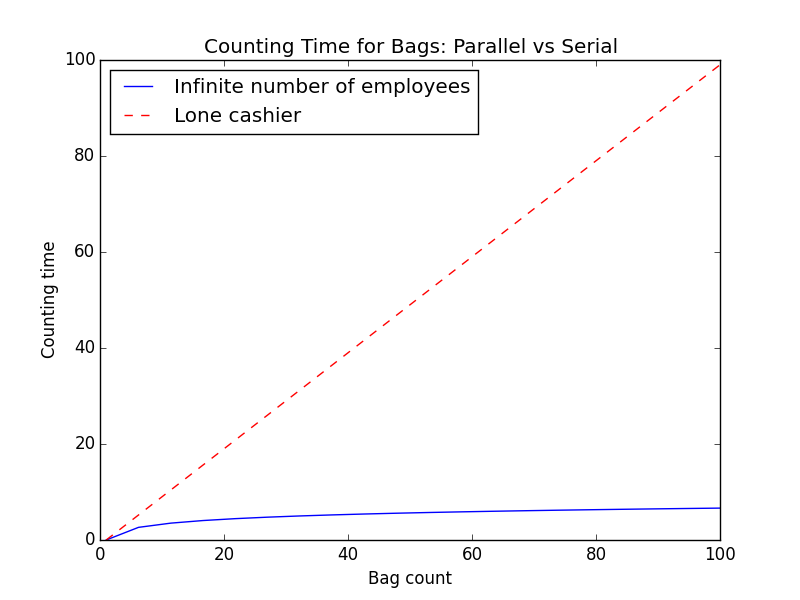
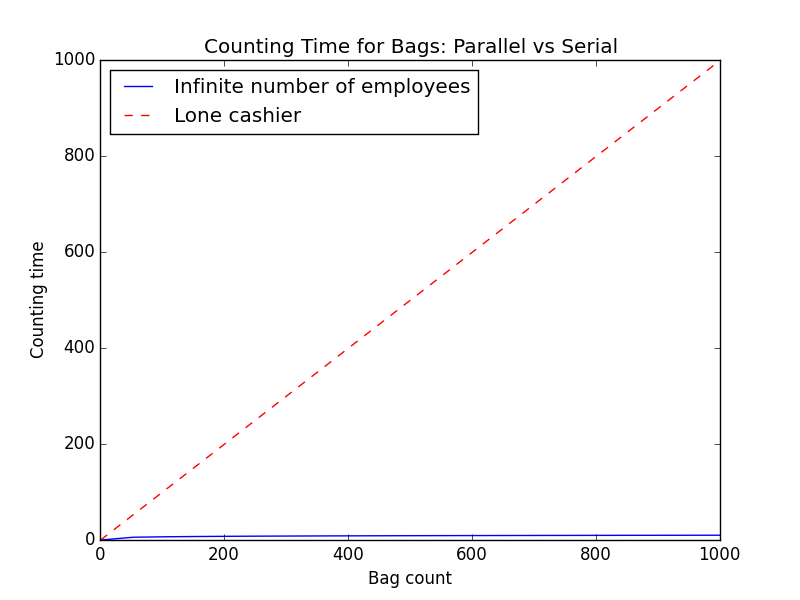
hw0b

diff --git a/HW0/P5/P5.py b/HW0/P5/P5.py
@@ -4,7 +4,7 @@ import math
 
 # Main
 if __name__ == '__main__':
-	x = np.linspace(1, 100, 20)
+	x = np.linspace(1, 1000, 20)
 	y1 = [math.log(i, 2) for i in x]
 	y2 = [(i - 1) for i in x]
 	plt.plot(x, y1, '-b', label = 'Infinite number of employees')
